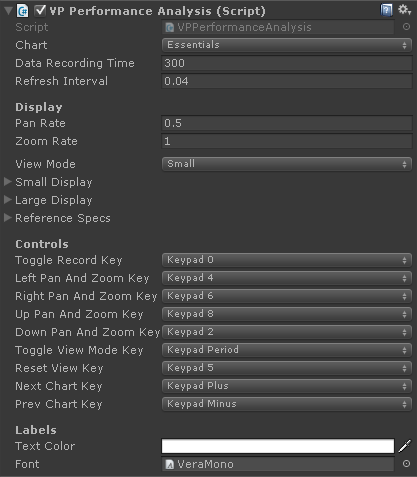
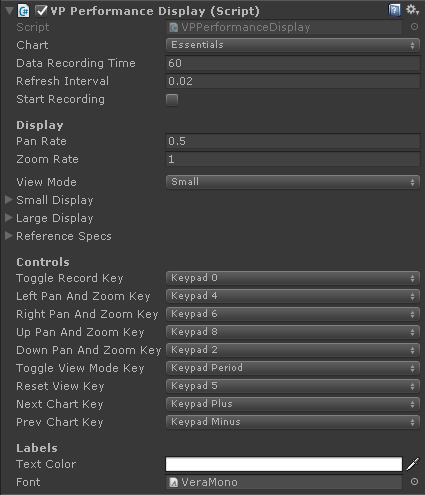
Updates from the development branch, soon to land at master

diff --git a/docs/components/vehicle-telemetry.md b/docs/components/vehicle-telemetry.md
@@ -85,13 +85,13 @@ Gizmos At Physic Position
 	correction.
 
 
-### VPPerformanceAnalysis
+### VPPerformanceDisplay
 
 Advanced data logger and live performance charts for a variety of data coming from the vehicle.
 The zoom and panning controls allow fully detailed inspection.
 
 <div class="imagegallery" sm="2" md="2" lg="2" style="display:none">
-	<img class="clickview" src="/img/components/vpp-performance-analysys-display-annotated.jpg" alt="VP Performance Analysis realtime display">
+	<img class="clickview" src="/img/components/vpp-performance-display-annotated.jpg" alt="VP Performance display">
 	<img class="clickview" src="/img/components/vpp-performance-chart-essentials.jpg" alt="Essentials Chart">
 </div>
 
@@ -104,7 +104,10 @@ Data Recording Time
 :	Size of the buffer of the data logger
 
 Refresh Interval
-:	Time in seconds between each chart refresh
+:	Time in seconds between each display refresh. This doesn't affect the rate the data is recorded.
+
+Start Recording
+:	Begin data recording as soon as the vehicle is enabled.
 
 Pan Rate
 :	How fast are the panning operations
@@ -181,7 +184,7 @@ Load supported by each wheel. Includes the speed trace for reference.
 ##### Custom
 
 You can write your own data logger by deriving from the `PerformanceChart` abstract class.
-Set it at the `customChart` property of the `VPPerformanceAnalysis` component.
+Set it at the `customChart` property of the `VPPerformanceDisplay` component.
 
 The `PerformanceChart` class exposes several properties you can use for gather the data and
 configure the visualization:

diff --git a/docs/advanced/databus-reference.md b/docs/advanced/databus-reference.md
@@ -19,7 +19,7 @@ is responsible of reading and populating their exposed values in the overrides f
 `VehicleBase.DoUpdateBlocks` and `VehicleBase.DoUpdateData`.
 
 For examples on how to use the Data Bus, check out the scripts `VPStandardInput.cs` (method
-`Update`) and `VPVehicleController.cs` (methods `DoUpdateBlocks` and `DoUpdateData`).
+`UpdateVehicle`) and `VPVehicleController.cs` (methods `DoUpdateBlocks` and `DoUpdateData`).
 
 #### Accessing the data bus
 
@@ -108,8 +108,11 @@ input. Successive gear shift commands can be grouped by adding/subtracting +-1 t
 |GearboxMode	| Actual transmission mode					| gear mode		|		| 0, 1, 2, 3, 4, 5 = _M, P, R, N, D, L_
 |GearboxShifting| Is the gearbox in the middle of a gear shift operation?	|		|		| 0 = no, 1 = yes
 |RetarderTorque	| Brake torque injected in the driveline by the retarder	| Nm	| 1000	| 2000000 = 2000 Nm
-|AbsEngaged		| Is the ABS being engaged in any wheel?	|		|		| 0 = no, non-zero = yes
-|TcsEngaged		| Is the TCS limiting the engine throttle?	| 		|		| 0 = no, non-zero = yes
+|AbsEngaged		| Is the ABS being engaged in any wheel?				|		|		| 0 = no, non-zero = yes
+|TcsEngaged		| Is the TCS limiting the engine throttle?				| 		|		| 0 = no, non-zero = yes
+|EscEngaged		| Is the ESC applying brakes for keeping stability?		|		|		| 0 = no, non-zero = yes
+|AsrEngaged		| Is the ASR applying brakes for reducing wheel slip?	|		|		| 0 = no, non-zero = yes
+|AidedSteer		| Steering wheel position after steering aids | %	| 10000	| -10000 = full left, 0 = center, +10000 = full right
 
 ### Settings channel
 

diff --git a/docs/advanced/custom-vehicles.md b/docs/advanced/custom-vehicles.md
@@ -121,10 +121,10 @@ public class SimpleVehicleController : VehicleBase
 		// Set the brakes at the Wheel blocks
 
 		float brakeTorque = brakeInput * maxBrakeTorque;
-		wheels[0].Tbrake = brakeTorque;
-		wheels[1].Tbrake = brakeTorque;
-		wheels[2].Tbrake = brakeTorque;
-		wheels[3].Tbrake = brakeTorque;
+		wheels[0].AddBrakeTorque(brakeTorque);
+		wheels[1].AddBrakeTorque(brakeTorque);
+		wheels[2].AddBrakeTorque(brakeTorque);
+		wheels[3].AddBrakeTorque(brakeTorque);
 		}
 	}
 ```
